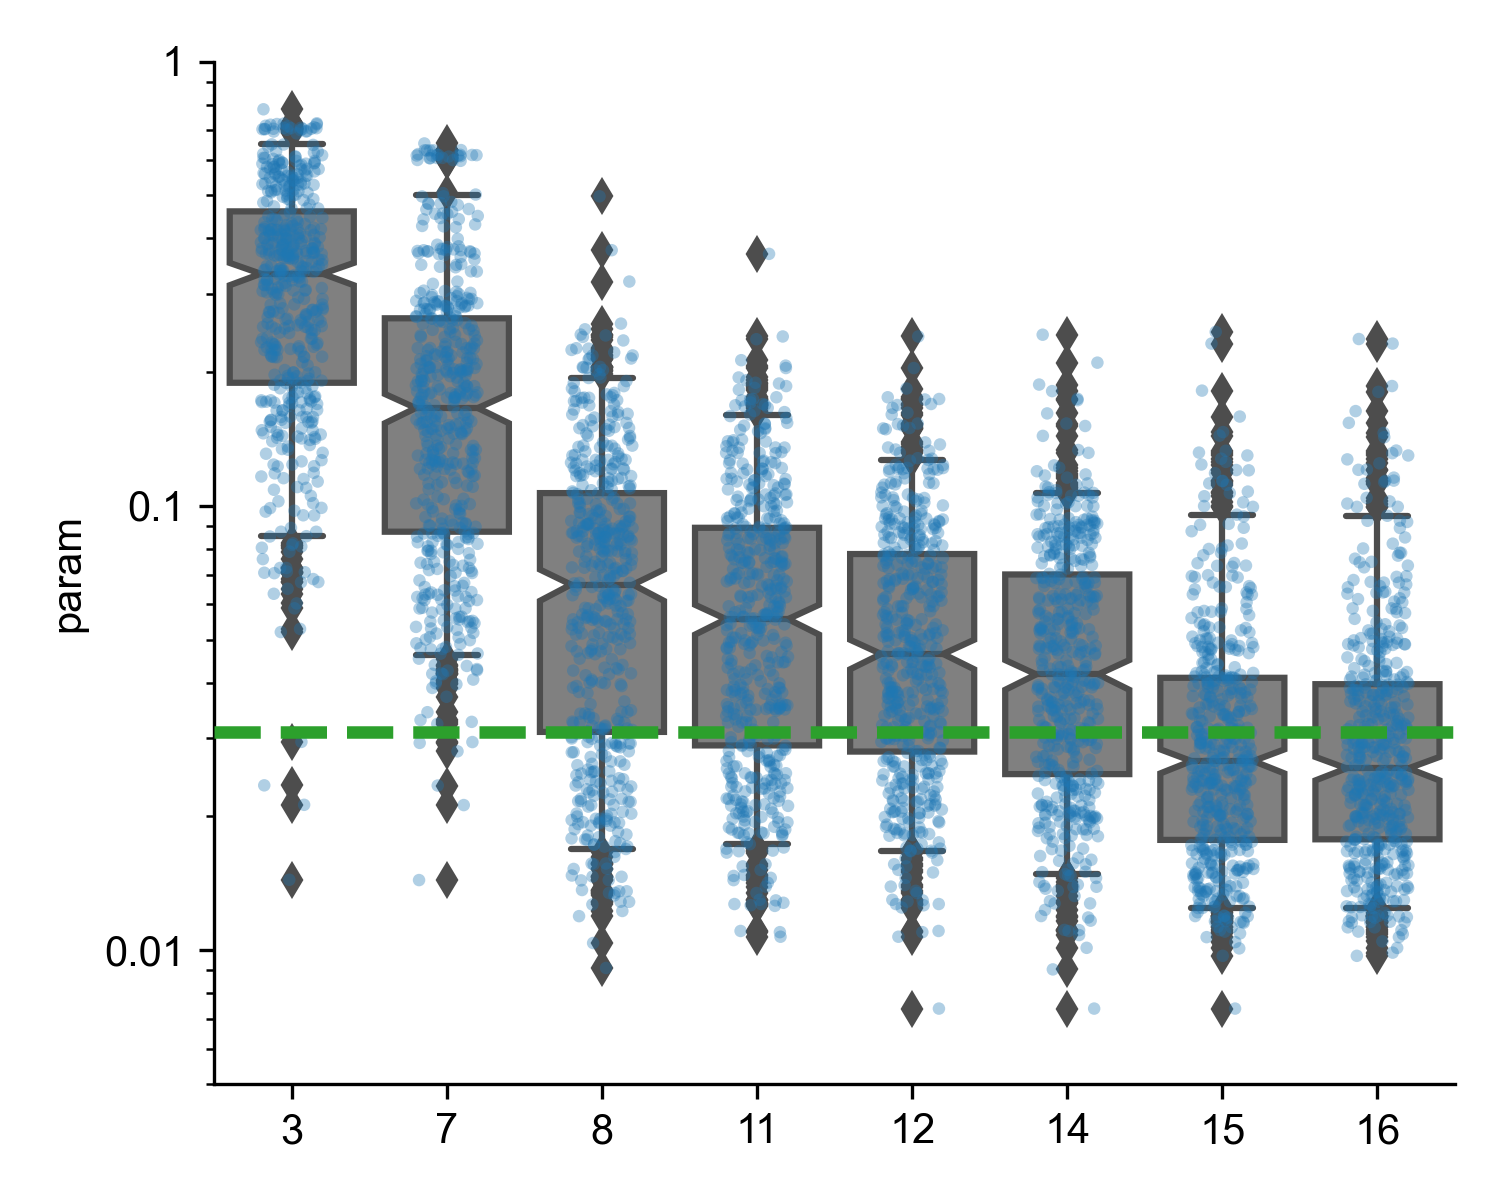
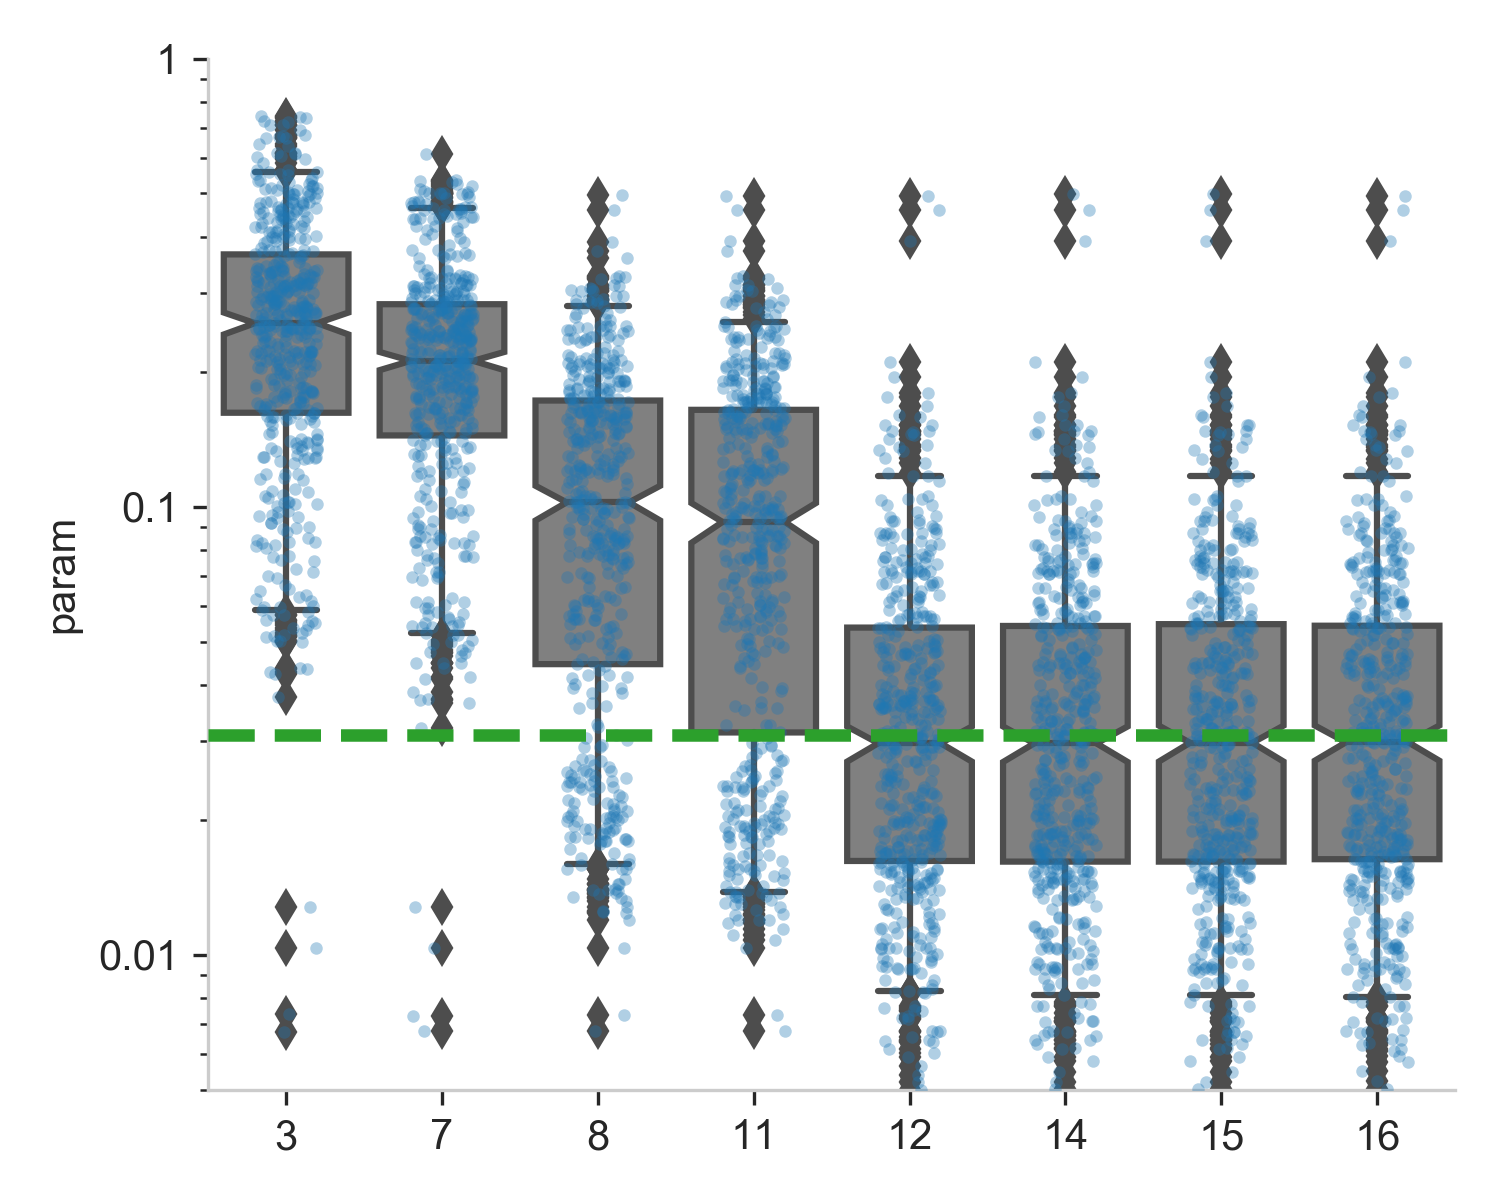
Update the generation of the Hantzsch SI Figure in hntz_discovery_timeline.py

diff --git a/robowski/misc_scripts/hntz_discovery_timeline.py b/robowski/misc_scripts/hntz_discovery_timeline.py
@@ -172,7 +172,7 @@ def process_run_by_shortname(run_shortname, substances_for_fitting, folder_for_p
     concentrations_df.to_csv(data_folder + run_name + folder_for_prod_conc + '/product_concentration.csv', index=False)
 
 
-def plot_timeline(list_of_runs, list_of_calibrant_set_ids, param_to_plot='rmse'):
+def plot_timeline(list_of_runs, list_of_calibrant_set_ids, param_to_plot='rmse', plot_name=''):
     # make a dataframe with columns 'param', 'set_index'
     overall_df = pd.DataFrame(columns=['param', 'set_index'], dtype=object)
     # fig, axarr = plt.subplots(1, len(list_of_calibrant_set_ids), figsize=(15, 5), sharey=True, dpi=150)
@@ -192,7 +192,6 @@ def plot_timeline(list_of_runs, list_of_calibrant_set_ids, param_to_plot='rmse')
         # axarr[list_of_calibrant_set_ids.index(set_index)].hist(param_values, orientation='horizontal', bins=np.logspace(np.log10(np.min(param_values)),np.log10(np.max(param_values)), 30))
         # axarr[list_of_calibrant_set_ids.index(set_index)].set_yscale('log')
 
-    fig, ax = plt.subplots(figsize=(5, 4))
     fig, ax = plt.subplots(figsize=(5, 4))
     sns.set_style('whitegrid')
     ax = sns.boxplot(ax=ax, x='set_index', y='param', data=overall_df, color='grey', notch=True, whis=[5, 95])
@@ -230,15 +229,36 @@ def plot_timeline(list_of_runs, list_of_calibrant_set_ids, param_to_plot='rmse')
     ax.yaxis.set_minor_locator(mticker.LogLocator(numticks=999, subs="auto"))
 
     plt.tight_layout()
-    fig.savefig(repo_data_path + 'misc_scripts/figures/hntz_discovery_timeline_withstoich1.png', dpi=300)
-
+    fig.savefig(repo_data_path + f'misc_scripts/figures/hntz_discovery_timeline_withstoich1_{plot_name}.png', dpi=300)
     plt.show()
 
 
 if __name__ == '__main__':
+
+    # For Figure 6 in main text
     list_of_runs = tuple(['2024-02-16-run01',
                           '2024-02-17-run01',
                           '2024-02-17-run02'])
+
+    # More repetitions for SI Figure S98, a
+    list_of_runs_Fig_S98a = tuple(['2024-01-08-run01',
+                                  '2024-01-08-run02',
+                                  '2024-01-08-run03'])
+
+    # More repetitions for SI Figure S98, b
+    list_of_runs_Fig_S98b = tuple(['2024-01-29-run01',
+                                  '2024-01-29-run01',
+                                  '2024-01-30-run01'])
+
+    # More repetitions for SI Figure S98, c
+    list_of_runs_Fig_S98c = tuple(['2024-01-16-run01',
+                                  '2024-01-16-run02',
+                                  '2024-01-17-run01'])
+
+    # More repetitions for SI Figure S98, d
+    list_of_runs_Fig_S98d = tuple(['2024-02-20-run01',
+                                  '2024-02-20-run02',
+                                  '2024-02-21-run01'])
 
     ### Uncomment to recalibrate the analysis
     # for set_index in [0, 1, 2, 3, 4, 5, 6, 7]:
@@ -252,4 +272,27 @@ if __name__ == '__main__':
     #     for i, run_shortname in enumerate(list_of_runs):
     #         process_run_by_shortname(run_shortname, combined_set, folder_for_prod_conc)
 
-    plot_timeline(list_of_runs, [0, 1, 2, 3, 4, 5, 6, 7], param_to_plot='maxresidual')
+    plot_timeline(list_of_runs,
+                  [0, 1, 2, 3, 4, 5, 6, 7],
+                  param_to_plot='maxresidual',
+                  plot_name='maintext')
+
+    plot_timeline(list_of_runs_Fig_S98a,
+                  [0, 1, 2, 3, 4, 5, 6, 7],
+                  param_to_plot='maxresidual',
+                  plot_name='SI_panel_a')
+
+    plot_timeline(list_of_runs_Fig_S98b,
+                  [0, 1, 2, 3, 4, 5, 6, 7],
+                  param_to_plot='maxresidual',
+                  plot_name='SI_panel_b')
+
+    plot_timeline(list_of_runs_Fig_S98c,
+                  [0, 1, 2, 3, 4, 5, 6, 7],
+                  param_to_plot='maxresidual',
+                  plot_name='SI_panel_c')
+
+    plot_timeline(list_of_runs_Fig_S98d,
+                  [0, 1, 2, 3, 4, 5, 6, 7],
+                  param_to_plot='maxresidual',
+                  plot_name='SI_panel_d')
